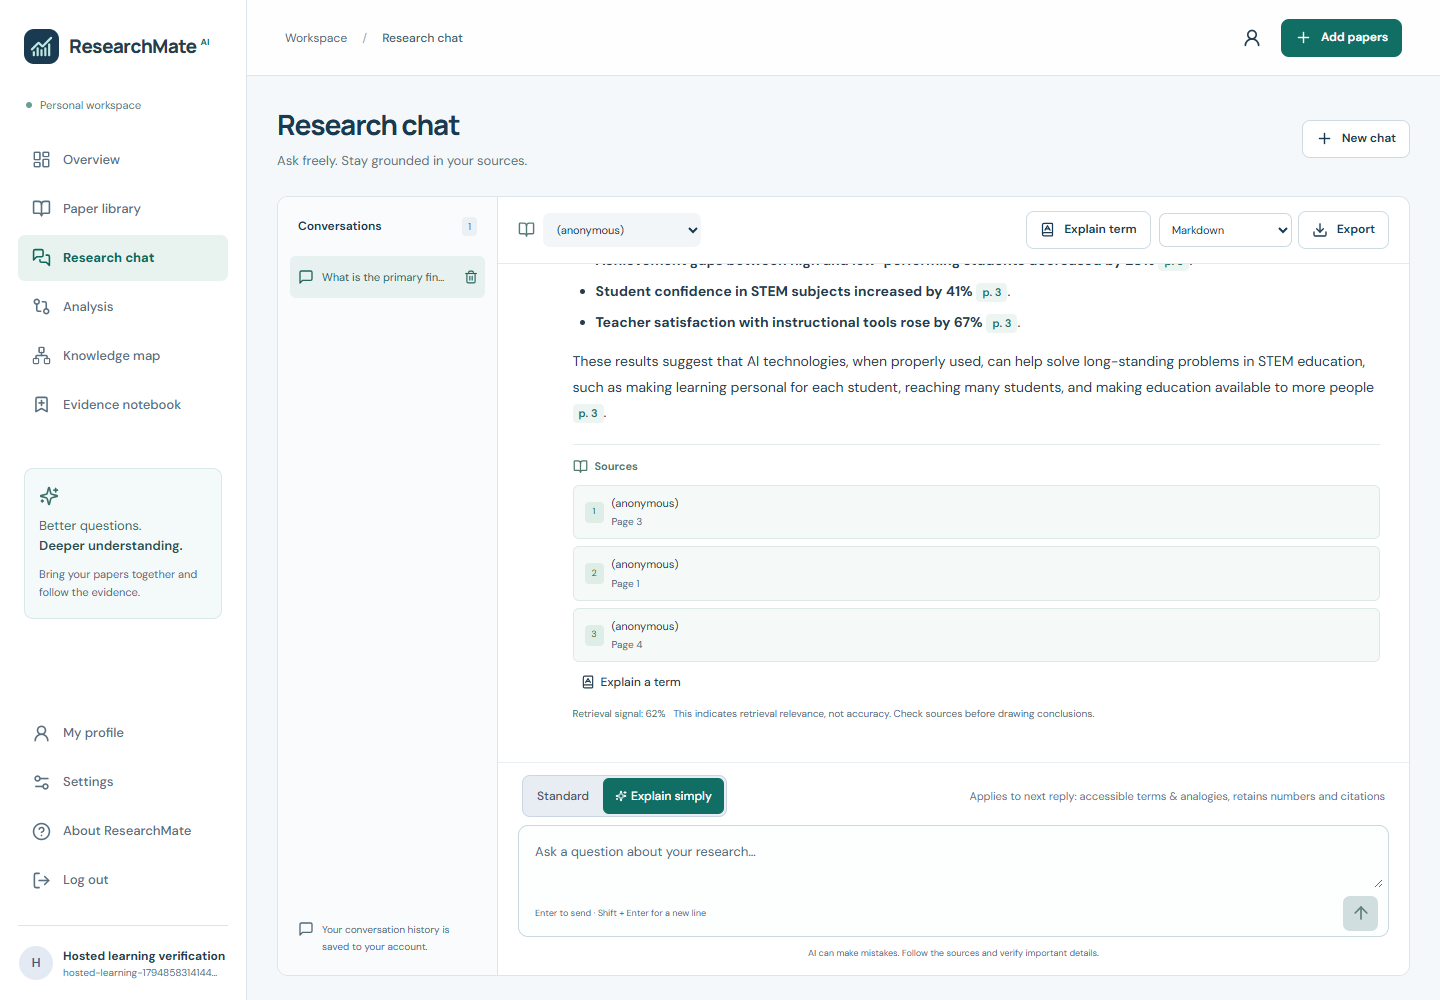
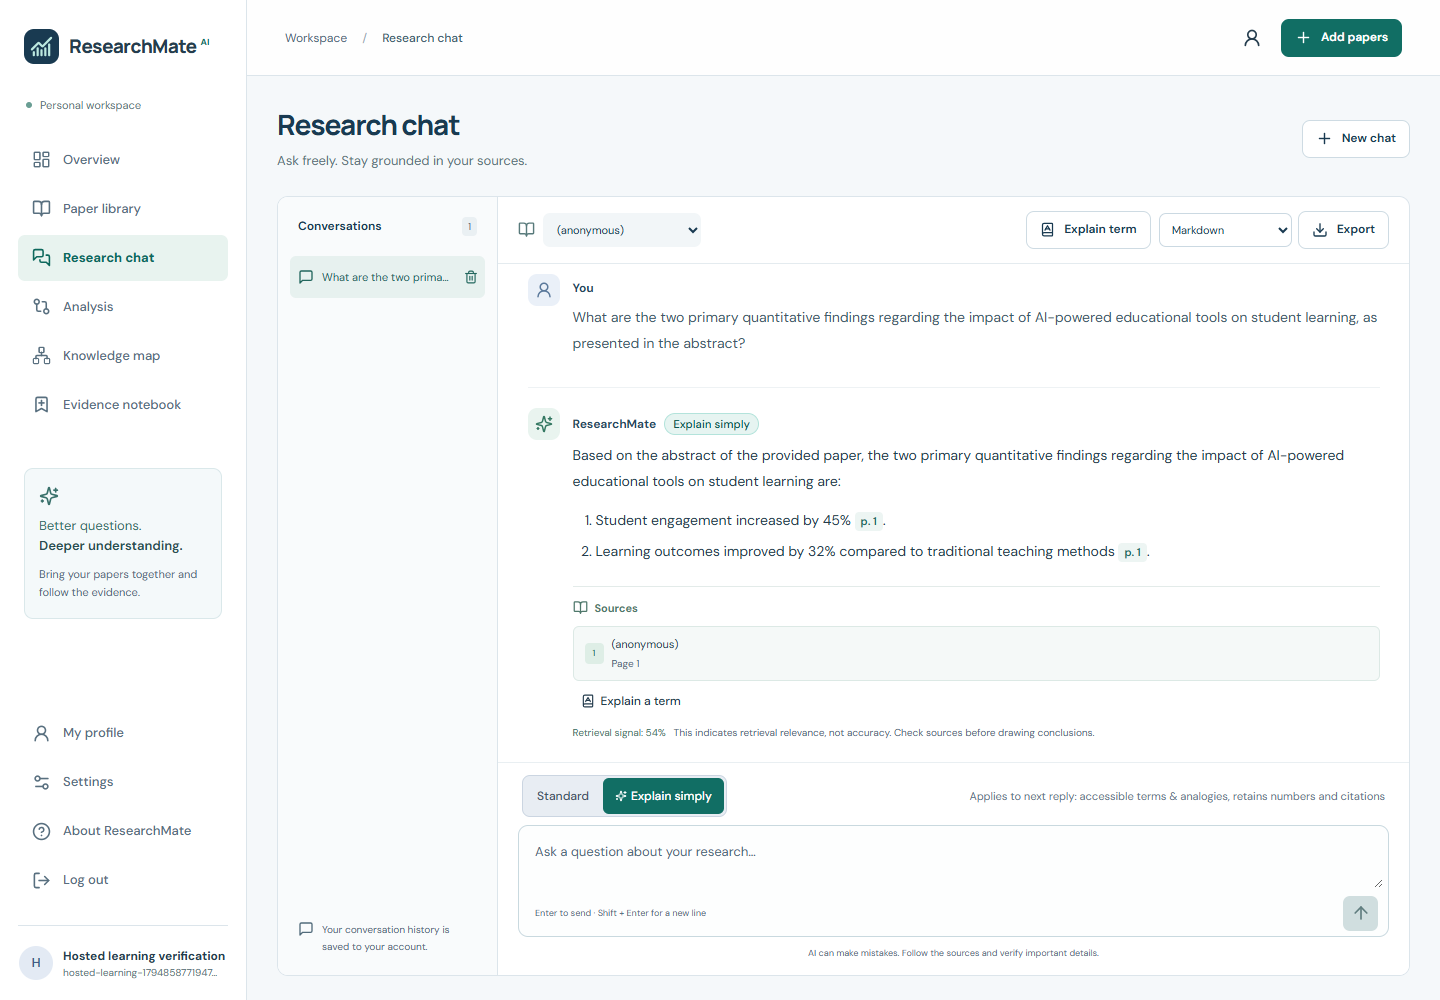
docs: record successful hosted learning verification [skip render]

Changed region(s): [[0.375, 0.279, 0.9375, 0.744], [0.25, 0.248, 0.2812, 0.279], [0.125, 0.961, 0.1562, 0.992]]

diff --git a/docs/verification/learning-assistance-audit.md b/docs/verification/learning-assistance-audit.md
@@ -57,7 +57,7 @@ Existing authentication, PDF ingestion/indexing, summarizer, knowledge graph and
 
 ## Deployment
 
-Existing Render services are linked to GitHub `Samin2712/Researchmate-ai`, branch `main`, with automatic deployment enabled. The existing frontend is a static Vite build; the backend is a single-worker FastAPI service. No new paid resource or external integration is needed for prompt 5. The deployed `/health` check confirmed healthy PostgreSQL, database-backed vectors, Gemini remote embeddings and Gemini 2.5 Flash. The existing settings select Gemini 2.5 Flash, not Gemini 3.8 Flash. Initial release `8618b59` became live on both services, and both hosted API and unmocked browser checks passed. A subsequent wording correction is verified and published separately; final deploy IDs are recorded in the deployment evidence file.
+Existing Render services are linked to GitHub `Samin2712/Researchmate-ai`, branch `main`, with automatic deployment enabled. The existing frontend is a static Vite build; the backend is a single-worker FastAPI service. No new paid resource or external integration is needed for prompt 5. The deployed `/health` check confirmed healthy PostgreSQL, database-backed vectors, Gemini remote embeddings and Gemini 2.5 Flash. The existing settings select Gemini 2.5 Flash, not Gemini 3.8 Flash. Initial release `8618b59` became live on both services. Backend correction `4f720ca` is also live; the frontend source tree is unchanged and remains on the verified `8618b59` deployment. After the correction, the real hosted API and unmocked hosted browser journeys both passed again, including automatic questions, real simple streamed answers, citations/source verification, saved modes/history and 390/768/1440px layouts. The hosted browser reported zero JavaScript errors. See `learning-deployment.json`, `learning-hosted-live.json`, and `learning-hosted-ui.json` for exact evidence. No additional external setup was needed. Verification evidence is committed separately with Render skipped because it changes no application source.
 
 ## Operational limits
 
